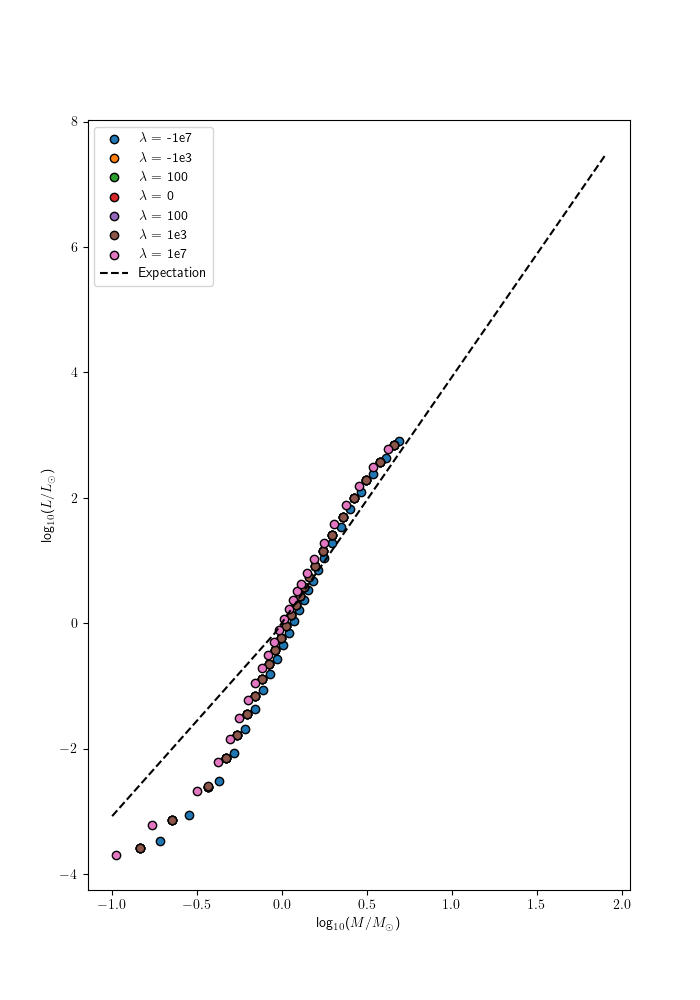
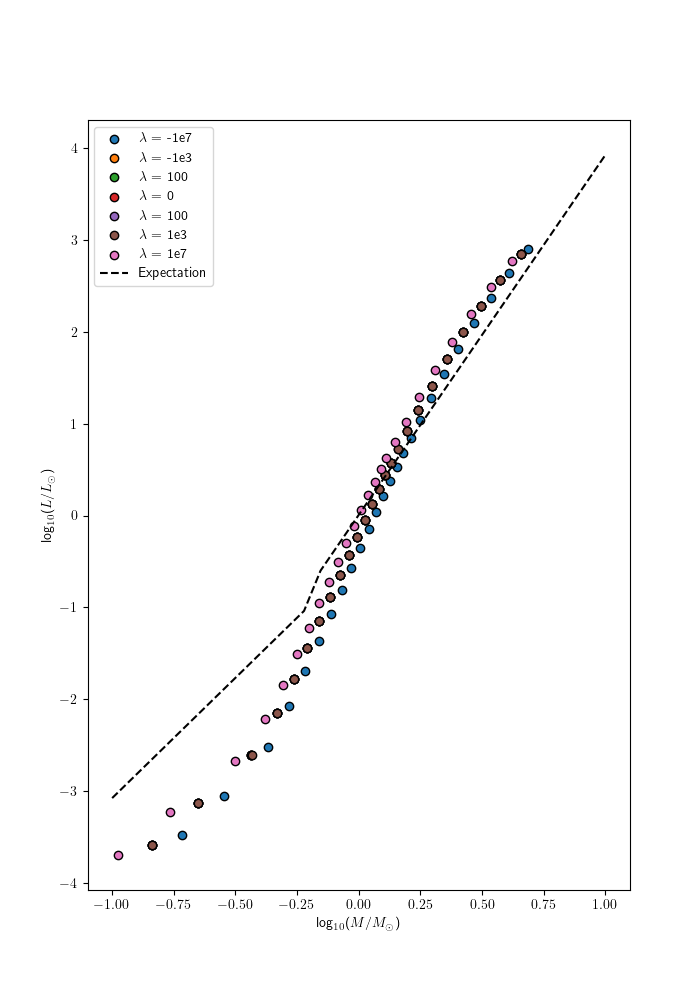
edits

diff --git a/generate_star.py b/generate_star.py
@@ -43,113 +43,6 @@ def solveODEs(r_init, r_fin, y0):
 
     return r, rho, T, M, L, tau
 
-def bisection(rhoc_min, rhoc_max, r_initial, r_final, y, steps):
-    '''This will use the bisection method to vary and determine the value for
-    for rho_c such that the lumnosity boundary condition is  met
-    '''
-
-    rhoc_mid = (rhoc_min + rhoc_max)/2 # determine mid point for rhoc given the min and max inputs
-
-    y_min = np.copy(y) # new intial value array for rhoc_min
-    y_min[0] = rhoc_min
-
-    y_mid = np.copy(y) # new intial value array for rhoc_mid
-    y_mid[0] = rhoc_mid
-
-    y_max = np.copy(y) # new intial value array for rhoc_max
-    y_max[0] = rhoc_max
-
-    # Now we want to use rhoc min,mid, and max to solve the ODEs individually
-    solutions_min = solveODEs(r_initial, r_final, y_min, steps)
-    solutions_mid = solveODEs(r_initial, r_final, y_mid, steps)
-    solutions_max = solveODEs(r_initial, r_final, y_max, steps)
-
-    # Need to find R_star, L_star, and T_star for the three solutions
-    tau_min = solutions_min[5]
-    tau_mid = solutions_mid[5]
-    tau_max = solutions_max[5]
-
-    i_min = np.argmin(tau_min[-1] - tau_min - 2/3)
-    i_mid = np.argmin(tau_mid[-1] - tau_mid - 2/3)
-    i_max = np.argmin(tau_max[-1] - tau_max - 2/3)
-
-    R_Star_min = solutions_min[0][i_min]
-    R_Star_mid = solutions_mid[0][i_mid]
-    R_Star_max = solutions_max[0][i_max]
-
-    L_Star_min = solutions_min[4][i_min]
-    L_Star_mid = solutions_mid[4][i_mid]
-    L_Star_max = solutions_max[4][i_max]
-
-    T_Star_min = solutions_min[2][i_min]
-    T_Star_mid = solutions_mid[2][i_mid]
-    T_Star_max = solutions_max[2][i_max]
-
-    # Using the luminosity_check (equation 17) for the valoues found using rhoc min,max, mid
-    fmin = tools.luminosity_check(R_Star_min, L_Star_min, T_Star_min)
-    fmid = tools.luminosity_check(R_Star_mid, L_Star_mid, T_Star_mid)
-    fmax = tools.luminosity_check(R_Star_max, L_Star_max, T_Star_max)
-
-    # Note: if 'f' is > 0 then our L(R_star) is greater than the theoretical
-
-    if fmin*fmax > 0:
-        print ("Change initial conditions, no rho_c possible.")
-        quit()
-    else:
-        #initial condition for rhoc
-        current = rhoc_mid
-        #arbitrary initializing
-        previous, diff = 0, 2
-
-        while abs(diff) > 1:
-            if fmin*fmid < 0: # Either fmin or fmid overshot while the other undershot
-                rhoc_max = rhoc_mid
-
-                rhoc_mid = (rhoc_min+rhoc_max)/2
-
-                # Now we re-solve ODEs using the new rhoc_mid
-                y_mid = np.copy(y) # new intial value array for rhoc_mid
-                y_mid[0] = rhoc_mid
-
-                soln = solveODEs(r_initial, r_final, y_mid, steps)
-                tau = soln[5]
-                i = np.argmin(tau[-1] - tau - 2/3)
-
-
-                R_Star_mid = soln[0][i]
-                T_Star_mid = soln[2][i]
-                L_Star_mid = soln[4][i]
-
-                fmid = tools.luminosity_check(R_Star_mid, L_Star_mid, T_Star_mid)
-
-            elif fmid*fmax < 0: # Either fmid or fmax overshot while the other undershot
-                rhoc_min = rhoc_mid
-                rhoc_mid = (rhoc_min+rhoc_max)/2
-
-                # Now we re-solve ODEs using the new rhoc_mid
-                y_mid =  np.copy(y) # new intial value array for rhoc_mid
-                y_mid[0] = rhoc_mid
-
-                soln = solveODEs(r_initial, r_final, y_mid, steps)
-                tau = soln[5]
-                i = np.argmin(tau[-1] - tau - 2/3)
-
-
-                R_Star_mid = soln[0][i]
-                T_Star_mid = soln[2][i]
-                L_Star_mid = soln[4][i]
-
-                fmid = tools.luminosity_check(R_Star_mid, L_Star_mid, T_Star_mid)
-
-            elif fmid == 0:
-                return rhoc_mid
-
-            previous = current
-            current = rhoc_mid
-            diff = current - previous
-
-    return rhoc_mid
-
 def get_f(rhoc, Tc):
 
     #the range of radii, in kg/m^3
@@ -164,28 +57,6 @@ def get_f(rhoc, Tc):
 
     initial_conditions = np.array([rhoc, Tc, M0, L0, tau0])
     r, rho, T, M, L, tau = solveODEs(r0, r_max, initial_conditions)
-
-    """
-    ic = np.array([rhoc, Tc, M, L0, tau0])
-
-    info = np.zeros((6,rs.size))
-    info[0,:] = rs
-    ""
-    i = 0
-    deltau = 1
-    tolerance = 1e-3
-    while (deltau > tolerance) and (M < 1e3 * s.Msun) and (i < rs.size):
-
-        ic = tools.RKF45Method_adaptive(grav.dydr_gscaled, rs[i], ic, 1000)
-        info[1:,i] = ic
-
-        rho, T, M, L, tau = ic
-        deltau = tools.del_tau(rho,T,rs[i],M,L)
-
-        i+=1
-
-    r, rho, T, M, L, tau = info
-    """
 
     #Equation 4 in the project description says we should find when this is zero to define the surface
     #If there was no np.abs then it would gravitate towards the final index

diff --git a/star_info.py b/star_info.py
@@ -88,7 +88,7 @@ def plot_star(data, info = None, savepath=""):
 
     axes[2,0].plot(r_R, data['dlogP/dlogT'], color = s.colours[0])
 
-    axes[2,0].set_ylim(0, 2*np.nanmax(data['dlogP/dlogT']))
+    axes[2,0].set_ylim(0, 1.2*np.nanmax(data['dlogP/dlogT']))
     axes[2,0].set_ylabel(r'dlog$P$/dlog$T$')
     axes[2,0].set_xlabel(r'$r$/$R_*$')
 
@@ -151,18 +151,20 @@ def plot_star(data, info = None, savepath=""):
         ax.xaxis.set_major_locator(tk.MultipleLocator(0.2))
         ax.xaxis.set_minor_locator(tk.MultipleLocator(0.05))
 
-        
+
         if i in [0,1]:
             ax.yaxis.set_major_locator(tk.MultipleLocator(0.2))
         elif i in [2, 3]:
-            ax.yaxis.set_major_locator(tk.MultipleLocator(2))
+            if i != 3:
+                ax.yaxis.set_major_locator(tk.MultipleLocator(2))
         else:
             ax.yaxis.set_major_locator(tk.MultipleLocator(5))
 
         if i not in [3,4]:
             ax.tick_params(labelbottom = False)
 
-        ax.yaxis.set_minor_locator(tk.AutoMinorLocator())
+        if i != 3:
+            ax.yaxis.set_minor_locator(tk.AutoMinorLocator())
 
 
     if savepath != "":
@@ -184,11 +186,14 @@ if __name__ == '__main__':
         plot_star(data, info = info, savepath = savepath)
     """
 
-    summary = os.path.join(s.data_folder, 'summary_test.csv')
-    info = pd.read_csv(summary, header=0).iloc[-1, :]
+    summary = os.path.join(s.data_folder, 'stars_lam_1e7','generated_stars.csv')
+    info = pd.read_csv(summary, header=0).iloc[24, :]
 
-    star = os.path.join(s.data_folder, 'test_star.csv')
+    star = os.path.join(s.data_folder, 'stars_lam_1e7', 'star_24.csv')
     data = pd.read_csv(star, header=0)
 
-    savepath = os.path.join(s.plots_folder, 'test_star.png')
+    savepath = os.path.join(s.plots_folder, 'pos_grav_star_1.png')
+
+    print('Plotting')
+
     plot_star(data, info=info, savepath=savepath)

diff --git a/tools.py b/tools.py
@@ -40,44 +40,6 @@ def dydr(r,y) :
 
     return dydr
 
-def RKF45Method_adaptive(f,r,y,h):
-    '''Second RK4Method which invovled adpative step sizes
-       Source: https://en.wikipedia.org/wiki/Runge%E2%80%93Kutta%E2%80%93Fehlberg_method#Implementing_an_RK4(5)_Algorithm
-       The coefficietns for 'A' were taken from the table title "COEFFICIENTS FOR RK4(5), FORMULA 2 Table III in Fehlberg"
-
-       SWITCHED TO FORMULA 1 INSTEAD !
-
-       Input(s):
-       - 'r' - array of radius
-       - 'y' - 5 column matrix representing [rho,Temp,Mass,Luminosity,OpticalDepth]
-       - 'h' - the stepsize
-
-       Output(s):
-       - 'y5' - 5th order solutions to ODE
-       - 'hnew' - the new adpted stepsize
-    '''
-    K1 = h*f(r, y)
-    K2 = h*f(r + (2/9)*h, y + (2/9)*K1 )
-    K3 = h*f(r + (1/3)*h, y + (1/12)*K1 + (1/4)*K2 )
-    K4 = h*f(r + (3/4)*h, y + (69/128)*K1 + (-243/128)*K2 + (135/64)*K3 )
-    K5 = h*f(r + (1)*h, y + (-17/12)*K1 + (27/4)*K2 + (-27/5)*K3 + (16/15)*K4 )
-    K6 = h*f(r + (5/6)*h, y + (65/432)*K1 + (-5/16)*K2 + (13/16)*K3 + (4/27)*K4 + (5/144)*K5 )
-
-    new_y = y + (47/450)*K1 + 0*K2 + (12/25)*K3 + (32/225)*K4 + (1/30)*K5 + (6/25)*K6
-
-    # The truncation error (TE)
-    TE = np.abs( (1/360)*K1 + (0)*K2 + (-128/4275)*K3 + (-2197/75240)*K4 + (1/50)*K5 + (2/55)*K6 )
-
-    # the error estimate of the RKF45 method
-    y5 = y + (25/216)*K1 + (1408/2565)*K3 + (2197/4101)*K4 - (1/5)*K5
-    y4 = y + (16/135)*K1 + (6656/12825)*K3 + (28561/56430)*K4 - (9/50)*K5 + (2/55)*K6
-    error = np.abs(y5 - y4)
-
-    # Calcuating the new step-sizes
-    hnew = min((0.9)*h*( (error/TE)**(1/5) ))
-
-    return new_y
-
 def epsilon(rho, T):
     """Calculates epsilon using Equations 8 and 9 from the project description.
     INPUTS:

diff --git a/diagrams.py b/diagrams.py
@@ -90,7 +90,7 @@ def LM_diag(data, savepath=""):
         ax.scatter(np.log10(Mscaled), np.log10(Lscaled), label=rf'$\lambda$ = {lam}', edgecolor='black', lw=1)
 
     #from Ryden p. 330
-    Mtest = np.linspace(0.1, 80, 100)
+    Mtest = np.linspace(0.1, 10, 100)
     Ltest = []
     for M in Mtest:
         if M < 0.7:
@@ -134,7 +134,7 @@ def RM_diag(data, savepath=""):
         ax.scatter(np.log10(Mscaled), np.log10(Rscaled), label=rf'$\lambda$ = {lam}', edgecolor='black', lw=1)
 
     #from Ryden p. 330
-    Mtest = np.linspace(0.1, 80, 100)
+    Mtest = np.linspace(0.1, 10, 100)
     Rtest = []
     for M in Mtest:
         if M < 1.66:
@@ -175,10 +175,10 @@ if __name__ == '__main__':
         #RM_diag(data, rm_path)
     #data = pd.read_csv(os.path.join(s.data_folder, 'stars_lam_0', 'generated_stars.csv'), header=0)[:50]
 
-    both = [(data,0)]
-    hr_path = os.path.join(s.plots_folder, 'HR_diag_lam=0')
-    lm_path = os.path.join(s.plots_folder, 'LM_diag_lam=0')
-    rm_path = os.path.join(s.plots_folder, 'RM_diag_lam=0')
+    #both = [(data,0)]
+    hr_path = os.path.join(s.plots_folder, 'HR_diag_full')
+    lm_path = os.path.join(s.plots_folder, 'LM_diag_full')
+    rm_path = os.path.join(s.plots_folder, 'RM_diag_full')
 
     HR_diag(both, hr_path)
     LM_diag(both, lm_path)

diff --git a/create_sequences.py b/create_sequences.py
@@ -32,7 +32,7 @@ def main():
         df.to_csv(rf"{os.path.join(s.data_folder, f'stars_lam_{lam}', f'star_{num}.csv')}", index=False)
 
         del df
-
+    
     '''
     Tc = 8235440
     Tc = 2e7
